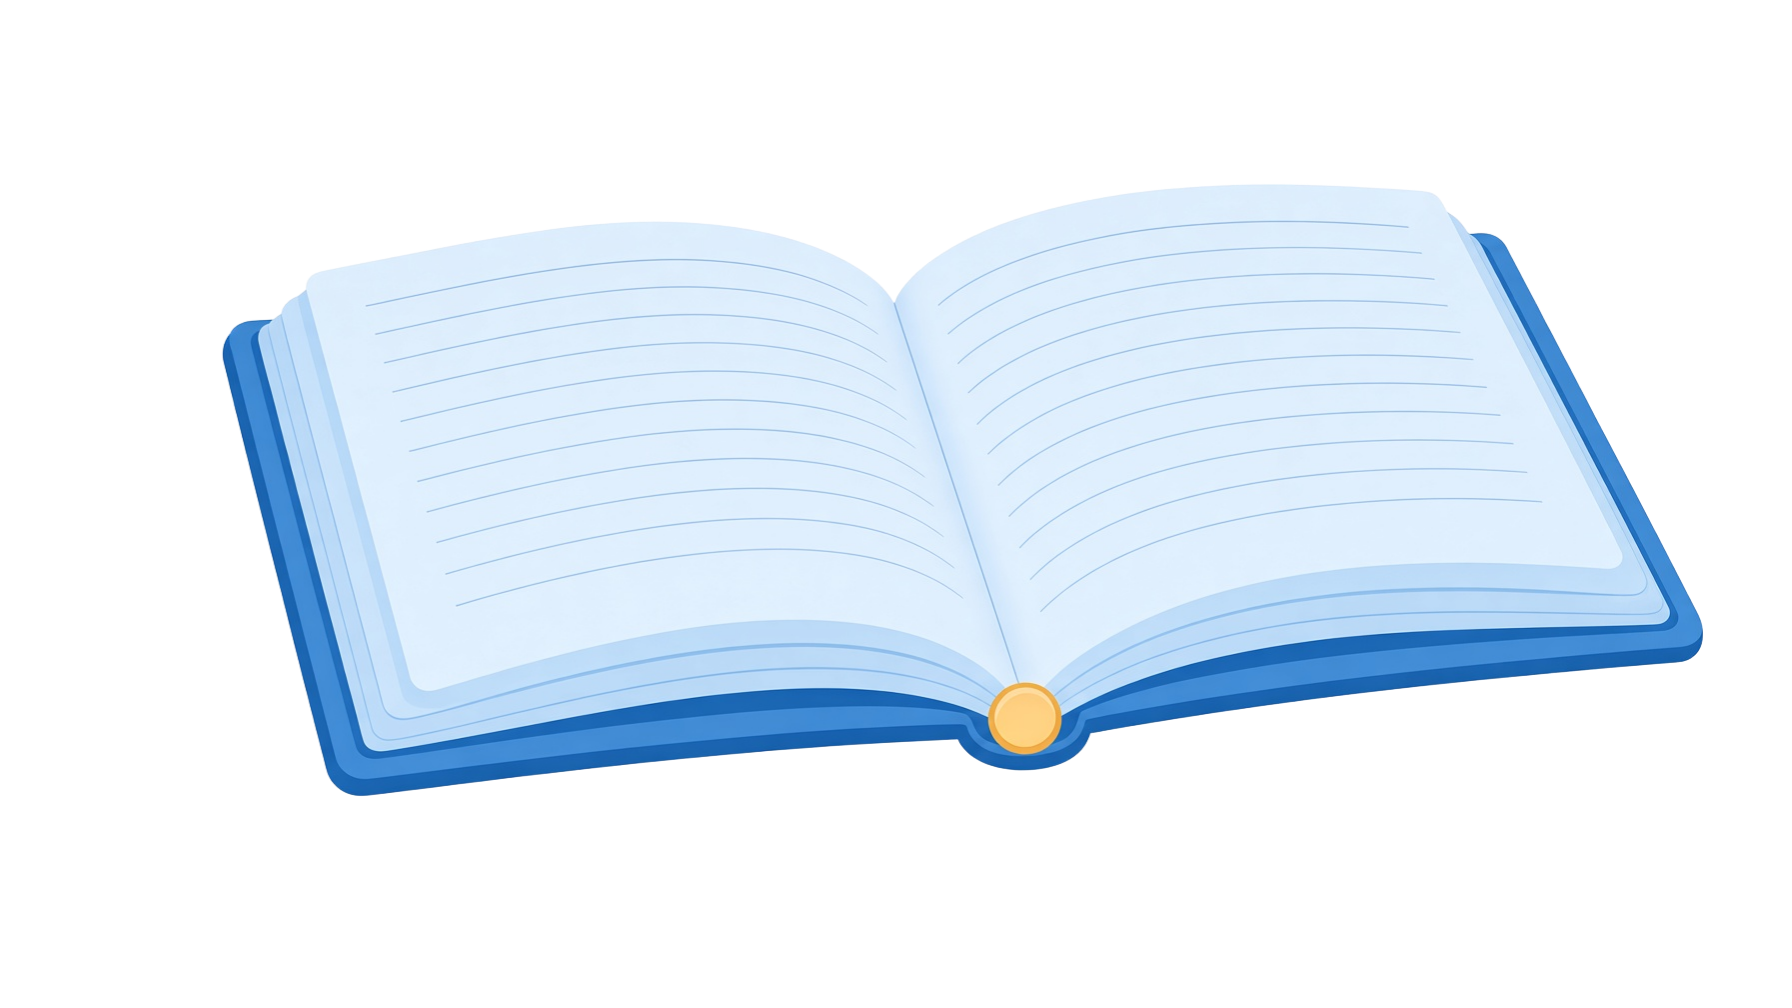
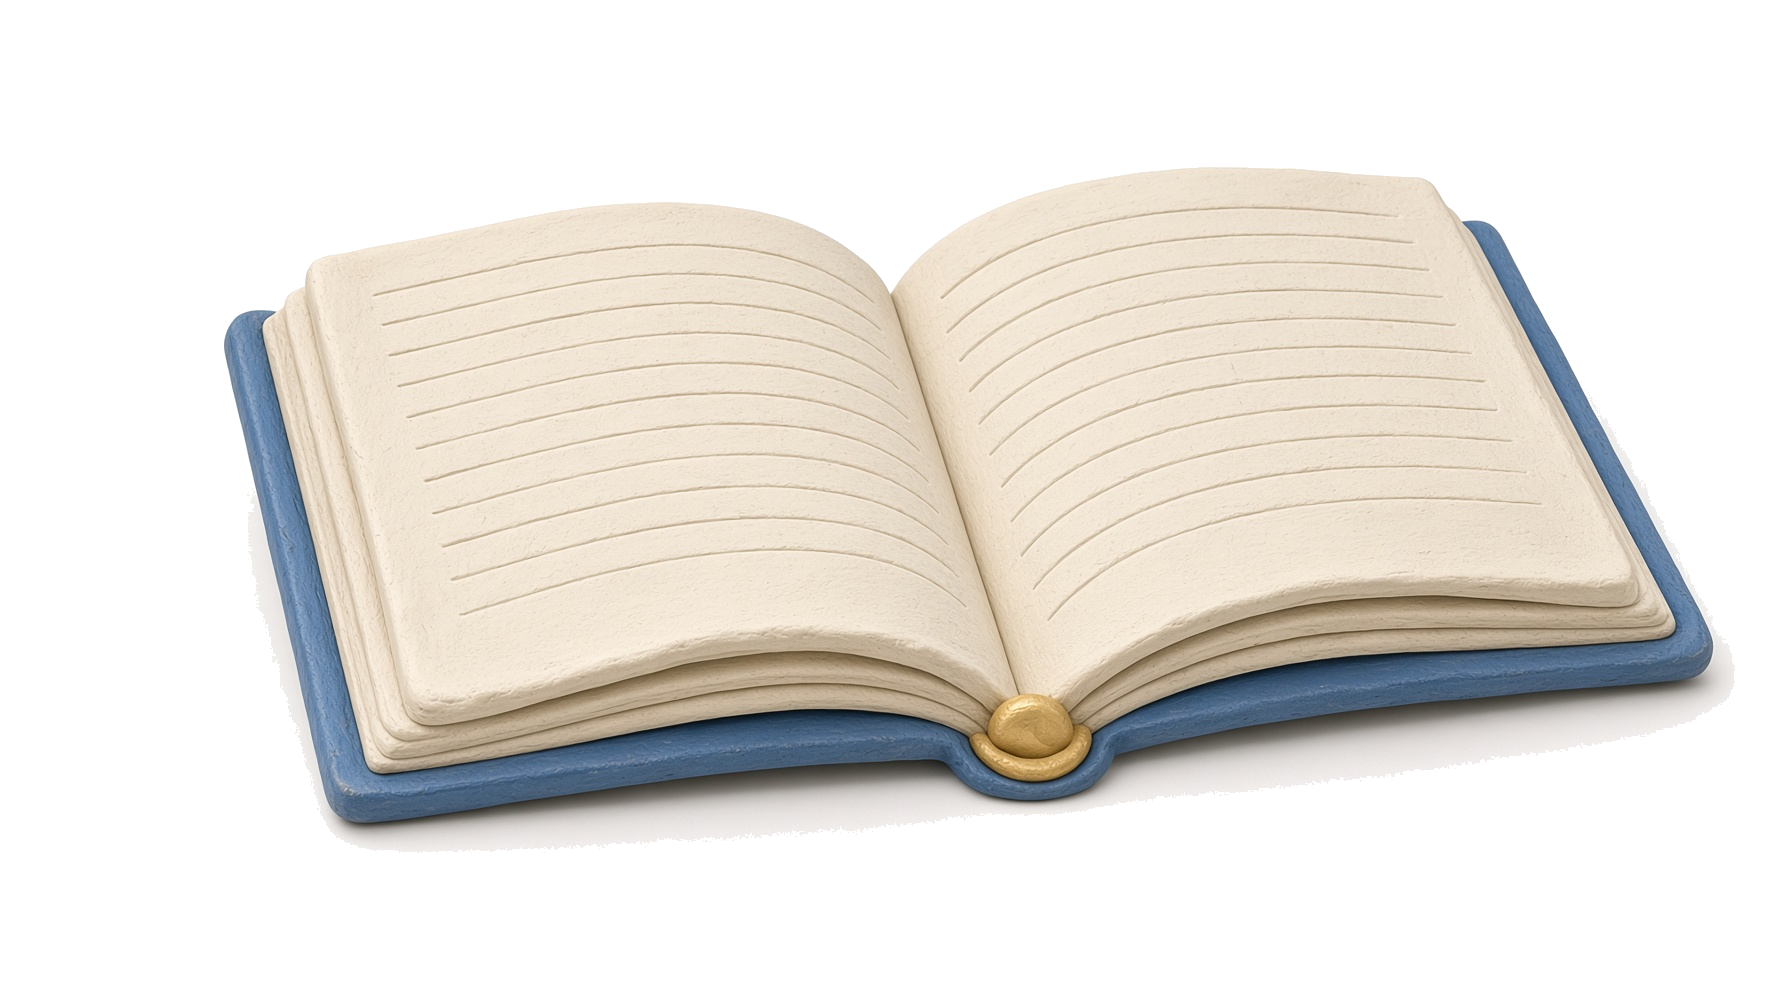
Open the story on the new book and let the map robot arrive.

diff --git a/src/styles.css b/src/styles.css
@@ -698,14 +698,25 @@ body.reduce .flip.open .flip-back { transform: none; }
 .intro-card { color: var(--cream); font-weight: 800; text-align: center; padding: 24px; }
 .pin.mark.is-locked { opacity: 0.45; }
 .map-robot {
-  position: absolute; left: 3%; right: 3%; bottom: 1%; z-index: 5;
-  display: flex; align-items: flex-end; gap: 8px; pointer-events: none;
+  position: absolute; right: 2%; bottom: 3%; left: auto; z-index: 5;
+  width: min(360px, 34%);
+  display: flex; flex-direction: column; align-items: flex-end; gap: 6px;
+  pointer-events: none;
 }
-.map-robot .robot-guide { display: flex; flex-direction: row; align-items: flex-end; gap: 8px; pointer-events: auto; }
-.map-robot .robot-stack { width: 150px; position: relative; }
-.map-robot .robot-body img { height: 168px; width: 150px; }
-.map-robot .robot-say { max-width: 340px; margin: 0 0 12px; }
-.numbers-toggle { pointer-events: auto; margin-bottom: 8px; }
+.map-robot .robot-say {
+  position: relative; margin: 0; max-width: 320px;
+  background: #fffaf3; color: #2b2155; border-radius: 18px; padding: 12px 14px;
+  font-weight: 800; line-height: 1.35; text-align: left;
+  box-shadow: 0 6px 0 rgba(43, 33, 85, 0.16);
+}
+.map-robot .robot-say::after {
+  content: ""; position: absolute; right: 42px; bottom: -12px;
+  border: 8px solid transparent; border-top-color: #fffaf3;
+}
+.map-figure { position: relative; width: min(280px, 30vw); }
+.map-figure img { width: 100%; height: auto; display: block; filter: drop-shadow(0 12px 8px rgba(20, 16, 8, 0.28)); }
+.map-figure .thought { left: auto; right: 78%; top: 6%; translate: 0 0; }
+.numbers-toggle { pointer-events: auto; }
 .map-config { position: absolute; top: 12px; right: 56px; z-index: 6; min-height: var(--tap); }
 .story-layout {
   flex: 1; min-height: 0;
@@ -867,17 +878,34 @@ body.reduce .popout, body.reduce .leaf.next, body.reduce .leaf.prev { animation:
   content: ""; position: absolute; left: 46%; bottom: -12px;
   border: 8px solid transparent; border-top-color: #fffaf3;
 }
-.case-play.phase-open .robot-guide { left: 7%; bottom: 16%; width: min(230px, 26cqw); }
-.case-play.phase-open .robot-say { max-width: min(320px, 36cqw); }
+.case-play.phase-open .robot-guide { left: 1%; bottom: 4%; width: min(200px, 22cqw); align-items: flex-start; }
+.case-play.phase-open .robot-say { max-width: min(250px, 28cqw); text-align: left; }
+.case-play.phase-open .open-stage { padding-left: 16%; }
 .case-play.phase-story .robot-guide { left: 2%; bottom: 10%; width: min(160px, 18cqw); }
 .case-play.phase-story .robot-say { display: none; }
 .case-play.phase-questions:not(.is-reply):not(.is-bridge):not(.has-hint) .robot-guide { left: 2%; bottom: 10%; width: min(170px, 20cqw); }
 .case-play.phase-questions:not(.is-reply):not(.is-bridge):not(.has-hint) .robot-say { display: none; }
 .case-play.has-hint .robot-guide { left: 2%; bottom: 8%; width: min(220px, 26cqw); }
 .case-play.has-hint .robot-say { display: block; max-width: min(300px, 36cqw); }
+.case-play.phase-open,
+.case-play.phase-story {
+  background: #24588a url("/assets/ui/papel-cuento.jpg") center / cover no-repeat;
+}
+.case-play.phase-open .hud strong,
+.case-play.phase-story .hud strong,
+.case-play.phase-open .tap-legend,
+.case-play.phase-story .book-nav { color: #fffaf3; }
+.book-open-hit { border: 0; background: transparent; padding: 0; cursor: pointer; width: min(88%, 860px); }
+.book-open-hit img { width: 100%; height: auto; display: block; }
 .case-play.is-talk .robot-guide {
   left: 50%; bottom: 5%; width: min(300px, 34cqw); translate: -50% 0; align-items: center;
 }
+.case-play.is-bridge .robot-guide {
+  left: 50%; bottom: 4%; width: min(480px, 52cqw); translate: -50% 0; align-items: center;
+}
+.case-play.is-bridge .robot-stack,
+.case-play.is-bridge .robot-body,
+.case-play.is-bridge .robot-body img { width: min(420px, 46cqw); height: auto; animation: none; }
 .case-play.is-talk .robot-say { max-width: min(540px, 72cqw); text-align: center; }
 .case-play .thought, .guide-play .thought { left: 100%; right: auto; top: 4%; translate: 10px 0; }
 .case-play .story-stage,
@@ -902,8 +930,8 @@ body.reduce .popout, body.reduce .leaf.next, body.reduce .leaf.prev { animation:
 .case-play .book-wrap { position: relative; width: min(100%, 1000px); }
 .case-play .book-pic { width: 100%; max-height: 50cqh; object-fit: contain; }
 .case-play .reading.in-book {
-  position: absolute; left: 16%; right: 16%; bottom: 44%; z-index: 3;
-  color: #161616; text-shadow: none; font-size: clamp(0.95rem, 1.7cqw, 1.15rem);
+  position: absolute; left: 14%; right: 14%; bottom: 58%; z-index: 3;
+  color: #161616; text-shadow: none; font-size: clamp(1.2rem, 2.4cqw, 1.6rem);
   pointer-events: none;
 }
 .case-play .book-wrap .page-hit {
@@ -1001,6 +1029,6 @@ body.reduce .guide-play .robot-guide { transition: none; }
   .case-play .action-cards { grid-template-columns: 1fr; }
   .case-play.phase-open .robot-guide { width: 140px; left: 8%; }
   .case-play .open-stage { padding: 0; }
-  .case-play .reading.in-book { font-size: 0.85rem; bottom: 10%; }
+  .case-play .reading.in-book { font-size: 1rem; bottom: 46%; }
 }
 

diff --git a/src/screens/Early.tsx b/src/screens/Early.tsx
@@ -1,8 +1,9 @@
 import { useEffect, useRef, useState } from "react";
 import { COVER, SUBTITLE, TITLE, statusLabel } from "../config/gameConfig";
 import { MAP_AFTER_1, MAP_INTRO } from "../config/case";
-import { Robot, type RobotPose } from "../components/Robot";
+import { NumberBubble } from "../components/Robot";
 import { blip } from "../lib/sound";
+import { speak } from "../lib/speech";
 import { useSession } from "../state/sessionStore";
 import type { MissionId } from "../config/gameConfig";
 
@@ -107,7 +108,16 @@ export function MapScreen() {
   const [line] = useState(() => mapSpeech(missions));
   const [showNumbers, setShowNumbers] = useState(false);
   const next = ([1, 2, 3] as MissionId[]).find((id) => unlocked(id, missions) && missions[id] !== "completed" && missions[id] !== "skipped");
-  const pose: RobotPose = unlocked("case", missions) ? "descubrimiento" : "señalando";
+  const reduce = session.persisted.reducedMotion;
+  const [landed, setLanded] = useState(reduce);
+  useEffect(() => {
+    speak(line, session.persisted.narration);
+  }, [line, session.persisted.narration]);
+  useEffect(() => {
+    if (reduce) return;
+    const timer = window.setTimeout(() => setLanded(true), 3000);
+    return () => window.clearTimeout(timer);
+  }, [reduce]);
   useEffect(() => {
     if (activity.tutorial.hinted) return;
     session.patch({
@@ -163,7 +173,11 @@ export function MapScreen() {
           <b className="stamp">Maletín</b>
         </button>
         <div className="map-robot">
-          <Robot pose={pose} say={line} bubble={showNumbers} />
+          <p className="robot-say">{line}</p>
+          <div className="map-figure">
+            {showNumbers && <NumberBubble />}
+            <img src={landed ? "/assets/robot/saludando-quieto.png" : "/assets/robot/llegando.gif"} alt="" />
+          </div>
           <button type="button" className="text-arrow numbers-toggle" onClick={() => setShowNumbers((value) => !value)}>
             {showNumbers ? "Ocultar números" : "Ver números"}
           </button>

diff --git a/src/screens/Mission1.tsx b/src/screens/Mission1.tsx
@@ -104,12 +104,15 @@ export function Mission1() {
           say={say}
           bubble={phase === "number" || phase === "close"}
           fresh={phase === "number" ? number : undefined}
+          src={phase === "questions" && !bridged ? "/assets/robot/pensando-sentado.gif" : undefined}
           onTap={asking ? () => setHint(question.hint) : undefined}
         />
         {phase === "open" && (
           <div className="story-stage open-stage">
-            <img className="book-pic intro-book" src={BOOK_OPEN} alt="" />
-            <button type="button" className="btn" onClick={() => { setPhase("story"); setPage(0); }}>Abrir el cuento</button>
+            <button type="button" className="book-open-hit" onClick={() => { setPhase("story"); setPage(0); }}>
+              <img className="book-pic intro-book" src={BOOK_OPEN} alt="Libro del cuento" />
+            </button>
+            <p className="tap-legend">Toca el libro para abrirlo.</p>
           </div>
         )}
         {phase === "story" && (

diff --git a/src/components/Robot.tsx b/src/components/Robot.tsx
@@ -21,6 +21,7 @@ export function Robot({
   fresh,
   className = "",
   onTap,
+  src,
 }: {
   pose: RobotPose;
   say?: string;
@@ -28,6 +29,7 @@ export function Robot({
   fresh?: number;
   className?: string;
   onTap?: () => void;
+  src?: string;
 }) {
   const session = useSession();
   const [nudged, setNudged] = useState(false);
@@ -52,7 +54,7 @@ export function Robot({
             window.setTimeout(() => setNudged(false), 420);
           }}
         >
-          <img src={POSE_SRC[pose]} alt="" />
+          <img src={src ?? POSE_SRC[pose]} alt="" />
         </button>
       </div>
     </div>
